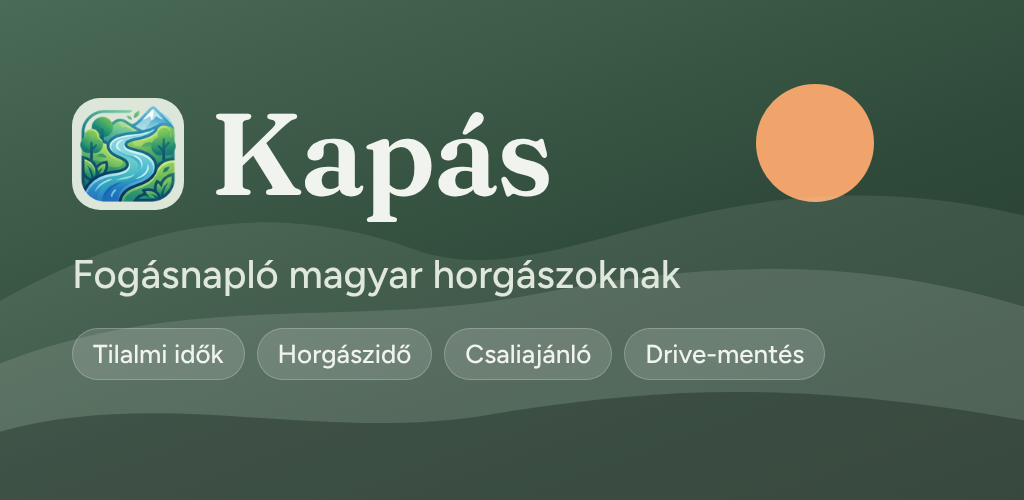
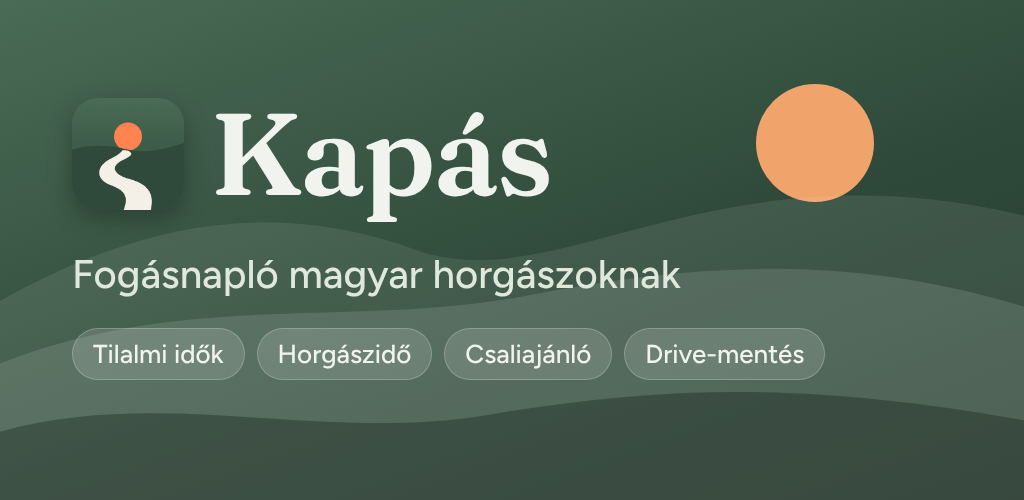
Új logó: Tisza-kanyar (adaptív és téma-ikon, értesítési ikon, fejléc, Play-ikon, áruházi képek)
- Adaptív app-ikon vektorosan: háttér (ég-átmenet, part) és előtér (esti nap, folyókanyar) külön rétegen
- Egyszínű téma-ikon (Android 13+), új értesítési ikon (nap és folyó), PNG-k régi Androidra
- Fejléc- és üdvözlő-logó, Play 512 px-es ikon (RGBA), újragenerált képernyőképek és kiemelt grafika
- Forrás: store/kepek/logo.svg

Claude-Session: https://claude.ai/code/session_01Qh2Y7JvDwMTh9qZWsKLAiN

Changed region(s): [[0.0625, 0.18, 0.1875, 0.42]]

diff --git a/tools/aruhaz-kepek.js b/tools/aruhaz-kepek.js
@@ -113,7 +113,7 @@ function wxMock(now){
   await cp.setContent(`<html><head><style>${FONTS}
     body{margin:0;width:1024px;height:500px;overflow:hidden;background:linear-gradient(160deg,#4a6b55 0%,#2f4a3a 55%,#22382b 100%);font-family:Figtree;position:relative;color:#f1f4ee}
     .scene{position:absolute;left:0;bottom:0;width:100%;height:330px}.sun{position:absolute;right:150px;top:84px;width:118px;height:118px;border-radius:50%;background:#f0a46b}
-    .row{position:absolute;left:72px;top:96px;display:flex;align-items:center;gap:26px}.row img{width:112px;height:112px;border-radius:28px;background:#dce6d9;padding:8px;box-sizing:border-box}
+    .row{position:absolute;left:72px;top:96px;display:flex;align-items:center;gap:26px}.row img{width:112px;height:112px;border-radius:26px;box-shadow:0 8px 24px rgba(0,0,0,.28)}
     h1{margin:0;font-family:Fraunces;font-weight:600;font-size:116px;letter-spacing:-2px;line-height:1}
     p{position:absolute;left:72px;top:250px;margin:0;font-size:40px;color:#dfe8da}
     .chips{position:absolute;left:72px;top:328px;display:flex;gap:12px}.chips span{font-size:26px;padding:9px 20px;border-radius:999px;background:rgba(255,255,255,.14);border:1px solid rgba(255,255,255,.22)}

diff --git a/CLAUDE.md b/CLAUDE.md
@@ -255,7 +255,10 @@ a `<head>` apró szkriptje az első rajzolás előtt beállítja. `ANDROID.setTh
 
 ## Név és logó
 
-- Az app neve **Kapás** (1.8-ig Fogásnapló). A logó a folyóvölgyes kép: a fejlécben `app/src/main/assets/logo.png`, adaptív ikon előtérként
-  `res/drawable-nodpi/ic_launcher_fg.png` (világos zsálya háttér: `ic_launcher_bg.xml`), egyszínű téma-ikon `ic_launcher_mono.xml`, régebbi Androidon az `ic_launcher.png`-k.
+- Az app neve **Kapás** (1.8-ig Fogásnapló). Logó: **„Tisza-kanyar”** (folyókanyar, esti nap, part; forrás: `store/kepek/logo.svg`, 512 egység).
+  Adaptív ikon vektorosan: háttér `res/drawable/ic_launcher_bg.xml` (ég-átmenet + part), előtér `ic_launcher_fg.xml` (nap + folyó), egyszínű
+  téma-ikon `ic_launcher_mono.xml`; a 768 egységes vásznon a rajz a látható középső 72 dp-be esik (eltolás 128). Értesítési ikon `ic_stat_fish.xml`
+  (nap + folyó maszk, a név maradt). PNG-k a vektorból: `mipmap-*/ic_launcher.png` (régi Android), `assets/logo.png` (fejléc, üdvözlő),
+  `store/kepek/ikon-512.png` (Play, lekerekítés nélkül, RGBA). A többi ötlet: `store/logo-otletek/`.
 - **Nem változott** (kompatibilitás): csomagnév `hu.fogasnaplo.app`, `fogasnaplo.*` tárolókulcsok, `FogasnaploAndroid` híd, mentésfájl-nevek,
   és a release-eszközök neve (`Fogasnaplo-TESZT.apk`, `version.json`), mert a már telepített tesztappok frissítője ezeket keresi.

diff --git a/store/logo-otletek/README.md b/store/logo-otletek/README.md
@@ -1,5 +1,7 @@
 # Kapás – logó-ötletek
 
+**A választott: 3. Tisza-kanyar** (2026. 11. 12.), a végleges forrás: `store/kepek/logo.svg`.
+
 `logo-osszevetes.png`: a jelenlegi és a három új irány nagyban, app-ikonként (kerek maszk, világos és sötét háttéren) és 48 / 32 / 24 px-en.
 
 | Fájl | Irány | Miért |
